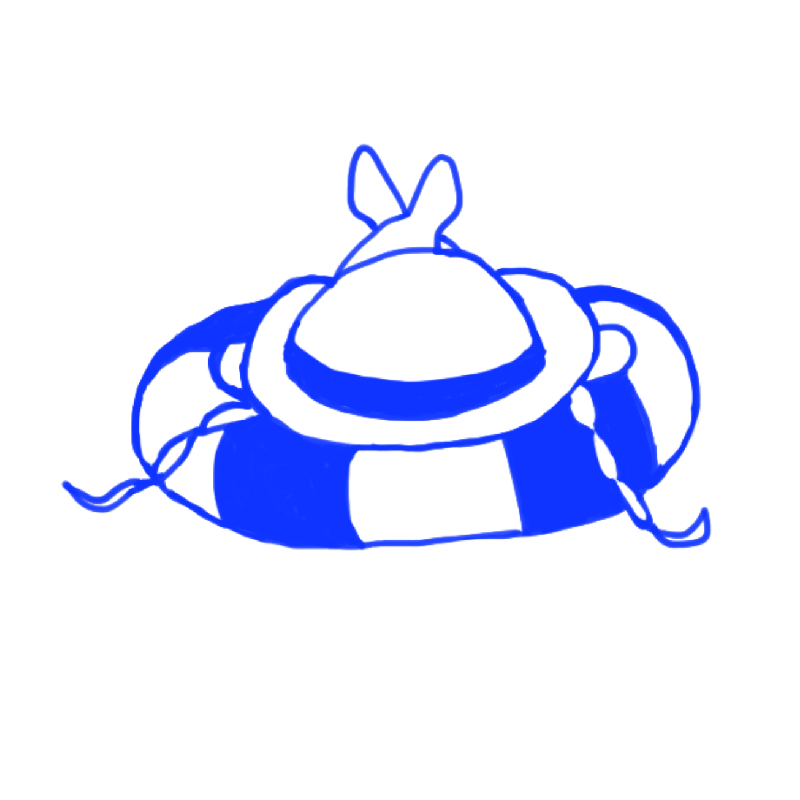
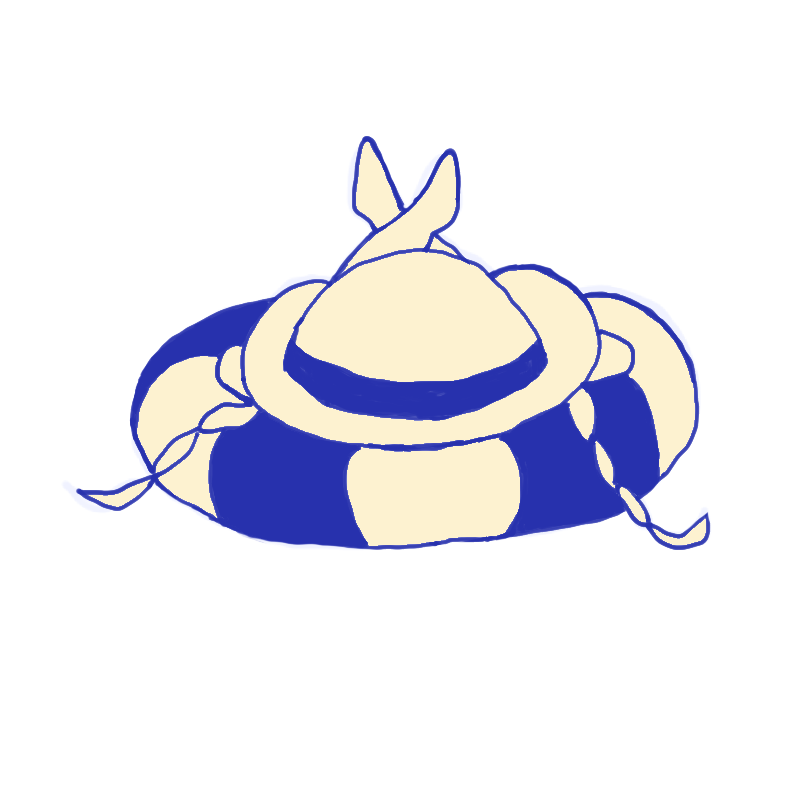
表紙

Changed region(s): [[0.0625, 0.1562, 0.9062, 0.6875]]

diff --git a/index.html b/index.html
@@ -11,9 +11,11 @@
     <link rel="stylesheet" href="styles.css">
 </head>
 <body>
-    <div class="title">
-        <img src="title.PNG" class="title-moji" alt="タイトル">
-        <img src="girl.PNG" class="title-girl" alt="表紙">
+    <div class="top">
+    <img src="subtitle.png" class="sub" alt="サブタイトル">
+        <div class="title">
+            <img src="title.PNG" class="title-moji" alt="タイトル">
+            <img src="girl.PNG" class="title-girl" alt="表紙">
     </div>
     <div class="wave">
         <!-- SVG -->
@@ -21,6 +23,7 @@
             <path id="wave" d=""/>
         </svg>
     </div>
+    
     <div class="interview">
         <p class="content">ーー今日は来てくださってありがとうございます。よろしくお願いします。早速なんですけど、20代の転機って、何ですか。</p>
         <p class="content">はーい、お願いします。20歳っていうと、ちょうど就職の時でね。私が（短大を）卒業する1年前が1993年で、バブル崩壊 のときだったの。やっぱり会社が倒産して、1番困ったのが雇用止めになる。そこで一番影響受けたのが女子学生なのね。 当時は、確か男女雇用機会均等法が制定されてすぐで、改正を重ねてるんだけど…。女性って男性より長い時間働けないし…。</p>
@@ -33,7 +36,7 @@
         <p class="content">ーー教育学部に行ったのにエンジニアに？</p>
         <p class="content">そう、そこなんだけど、私がとっている授業の中に、プログラミングの授業があったの。小中学校でパソコンが普及した時のために、教材をプログラミングして作りましょうっていう内容で。その先生が、元々IBMの偉い人だったみたいで。その先生の部下がソフトウェア会社をやっていて、今後、女子も長く働けるようになるから、女子を積極的に雇用したい。 知らなくてもいいから、真面目で根気のあるような人がいいっていうお話があって。</p>
         <p class="content">ーーへぇ、なるほど。そこが仕事との出会いだったのか。</p>
-        <p class="content">うん。私は、その話を学校で聞いた時はなんとも思わなかったんだけど、同じく就職決まってない友達に、先生からの紹介+C22だったらそこまで悪くないだろうし、一緒に受けようよって言われて。で、親に言ったら、先生の紹介だったらいいんじゃないって言われたから、受けたのね。そしたら受かって、 で、入ったの。普通、就職する時に理転って、ほぼほぼないじゃん。</p>
+        <p class="content">うん。私は、その話を学校で聞いた時はなんとも思わなかったんだけど、同じく就職決まってない友達に、先生からの紹介だったらそこまで悪くないだろうし、一緒に受けようよって言われて。で、親に言ったら、先生の紹介だったらいいんじゃないって言われたから、受けたのね。そしたら受かって、 で、入ったの。普通、就職する時に理転って、ほぼほぼないじゃん。</p>
         <p class="content">ーー確かに、文系の人が就職の時に理系の仕事を選ぶことってそうそうないですよね。</p>
         <p class="content">だからって、ほんとにさ、ありえないんだけど。今思えば転機だけど、当時は流されただけだけだった。それで入って。その当時はさ、知ってる？ポケベルの時代だから。だから情報って自分でそんな好きなように取れないわけだ。新聞かテレビかでしょ。パソコンも持ってなかったのね。ワープロって言って、ワードが1つの端末になってるようなパソコンがあってそれを使ってた。</p>
         <p class="content">ーー聞いたことはあります！</p>

diff --git a/styles.css b/styles.css
@@ -1,5 +1,19 @@
+
 body {
-    
+  font-family: 'Noto Sans JP','NotoSansCJKjp','ヒラギノ角ゴ ProN', 'Hiragino Kaku Gothic ProN', 'メイリオ', Meiryo, 'ＭＳ Ｐゴシック', 'MS PGothic';
+  position: relative;
+  background-image: url('back-image.jpg'); /* 古い紙の画像 */
+  background-size: cover; /* 全体にフィットさせる */
+  background-repeat: no-repeat; /* 繰り返しを防ぐ */
+  background-position: center; /* 中央に配置 */
+  color: #3e3e3e; /* 紙に合う文字色 */
+  margin: 0;
+  padding: 0;
+}
+
+.top {
+  width: 100%;
+  position: relative;
 }
 
 .title {
@@ -10,23 +24,35 @@ body {
     margin-top: -300px;
     margin-bottom: -400px;
     z-index: 2;
+    animation: moveUpDown 2s infinite ease-in-out;
+}
+
+@keyframes moveUpDown {
+  0%, 100% {
+    transform: translateY(0);
+  }
+  50% {
+    transform: translateY(20px);
+  }
+}
+
+.sub {
+  position: absolute;
+  top: 0;
+  right: 0;
+  width: 300px;
+  height: auto;
 }
 
 svg {
     margin-top:0;
-    height: 40vh;
+    height: 100vh;
       width: 100vw;
       position: absolute;
       z-index: 1;
   }
-
-  body {
-    font-family: 'Noto Sans JP','NotoSansCJKjp','ヒラギノ角ゴ ProN', 'Hiragino Kaku Gothic ProN', 'メイリオ', Meiryo, 'ＭＳ Ｐゴシック', 'MS PGothic';
-  }
  
-  .container {
-    position: relative;
-  }
+
 
   .box {
     padding: 20px;
@@ -35,6 +61,7 @@ svg {
     height: 80vh;
   }
 
+ 
   .main {
     margin-top:0;
   }
@@ -50,8 +77,9 @@ svg {
 .content {
     font-family: 'Zen Kaku Gothic New';
     font-size: 16px;
-    color:#0f34ff;
+    color:#2731AD;
     line-height: 2;
     margin-bottom: 50px;
     font-weight: Medium;
 }
+

diff --git a/js/functions.js b/js/functions.js
@@ -3,7 +3,7 @@ $(document).ready(function() {
     height: 100,
     bones: 10,//波の山と谷の数
     amplitude: 20,//振幅
-    color: '#0f34ff',
+    color: '#2731AD',
     speed: .25//速度
   });
 });
